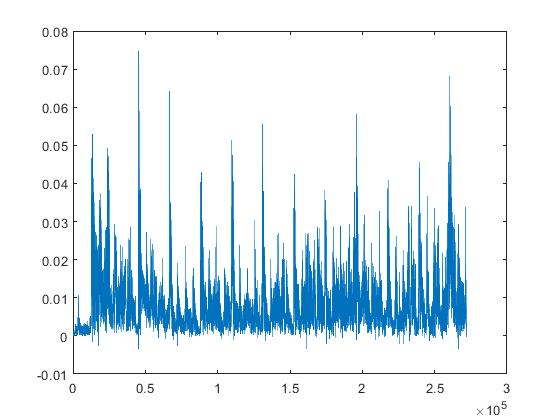
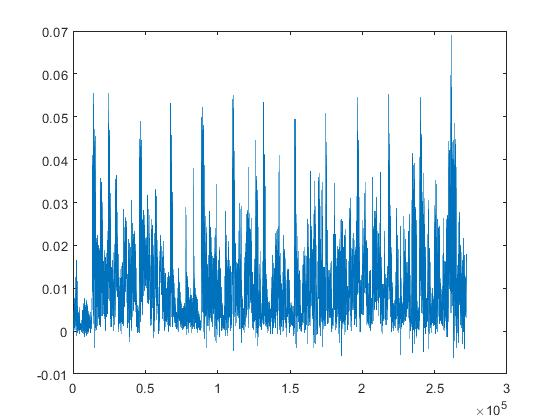
updated Phase 2

diff --git a/Phase 2/Filter_Bank.m b/Phase 2/Filter_Bank.m
@@ -1,13 +1,5 @@
 close all;
-Fpass = 450;
-
-% Make filter bank array of filter objects
-Filter1 = fdesign.bandpass(Fpass1 - 50, Fpass1, Fpass1 * (19^scale), Fpass1 * (19^scale) + 50, Astop1, Apass, Astop2, Fs);
-dF1 = design(Filter, 'ellip', 'MatchExactly', 'both');
-filterBank = [dF1, dF1, dF1, dF1, dF1, dF1, dF1, dF1, dF1];
-%% I don't know if the dF1 type will store the new kind of filter, may need to make a 
-%% junk FIR filter to replace here. 
-
+Fpass = 400;
 
 %Equiripple filter constants
 Dstop1 = 0.001;           % First Stopband Attenuation
@@ -16,15 +8,26 @@ Dstop2 = 0.001;           % Second Stopband Attenuation
 dens = 20;                % Density Factor
 Fs = 16000;               % Sampling Frequency             
 
+% Make filter bank array of filter objects
+[N, Fo, Ao, W] = firpmord([100 200 300 400]/(Fs/2), [0 1 ...
+                          0], [Dstop1 Dpass Dstop2]);
+b = firpm(N, Fo, Ao, W, {dens});
+dF1 = dfilt.dffir(b);
+filterBank = [dF1, dF1, dF1, dF1, dF1, dF1, dF1, dF1, dF1];
+%% I don't know if the dF1 type will store the new kind of filter, may need to make a 
+%% junk FIR filter to replace here. 
+
+
+
 % Generate 9 filters spaced logarithmically apart
 for i = 1:9
     % Calculate order using FIRPMORD
-    [N, Fo, Ao, W] = firpmord([Fstop - 50, Fpass, Fpass * (19^0.1), Fpass * (19*0.1) + 50]/(Fs/2), [0 1 ...
+    [N, Fo, Ao, W] = firpmord([Fpass - 50, Fpass, Fpass * (19^0.1), Fpass * (19^0.1) + 50]/(Fs/2), [0 1 ...
     0], [Dstop1 Dpass Dstop2]);
     
     % Calculate coeffs using FIRPM function
     b = firpm(N, Fo, Ao, W, (dens));
-    designedFilter = dsp.FIRFilter('Numerator', b);
+    designedFilter = dfilt.dffir(b);
     filterBank(i) = designedFilter;
     
     %%% Prev code for reference
